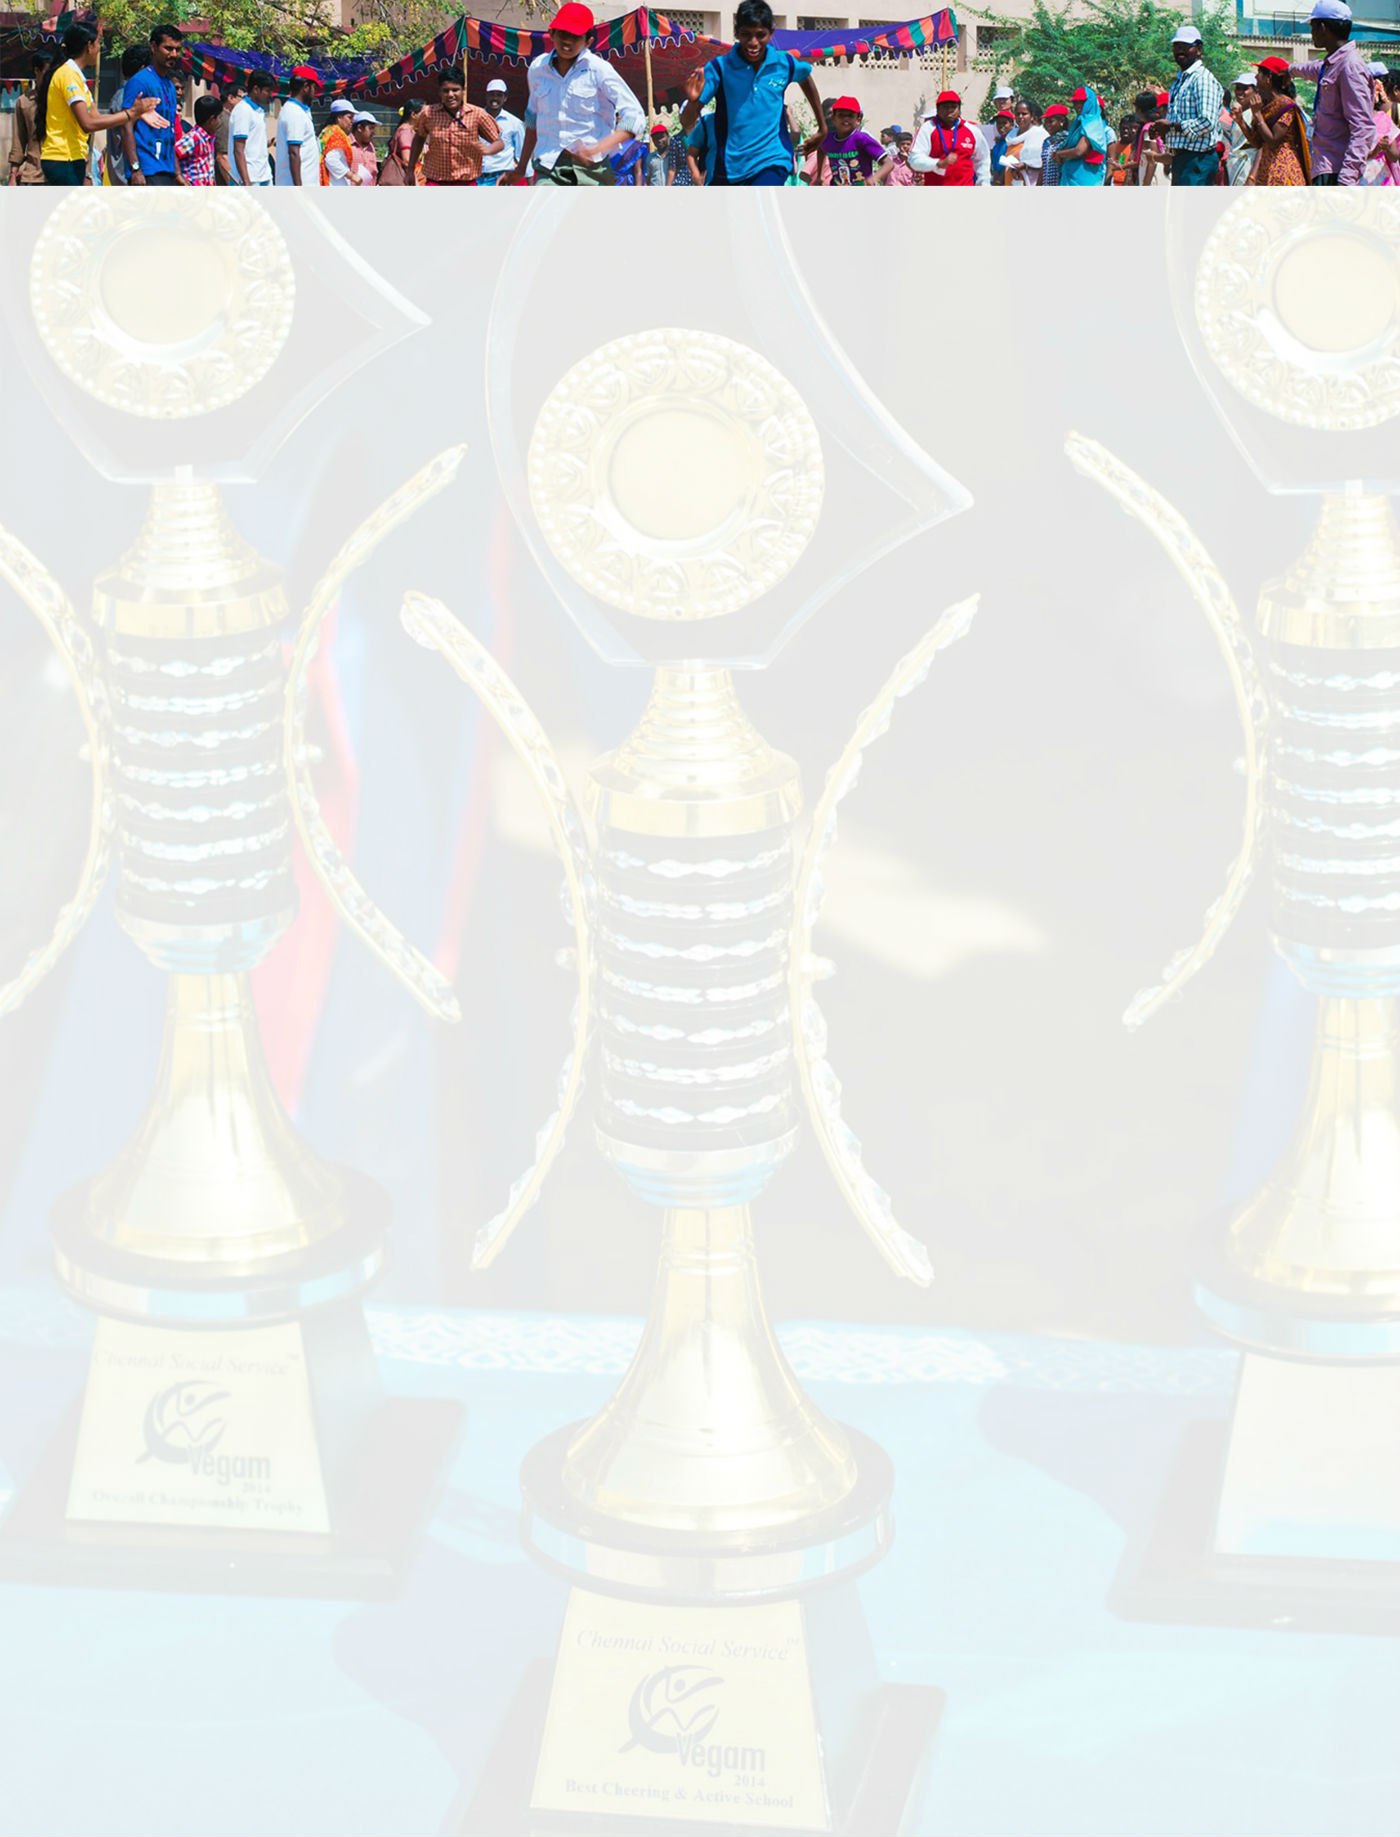
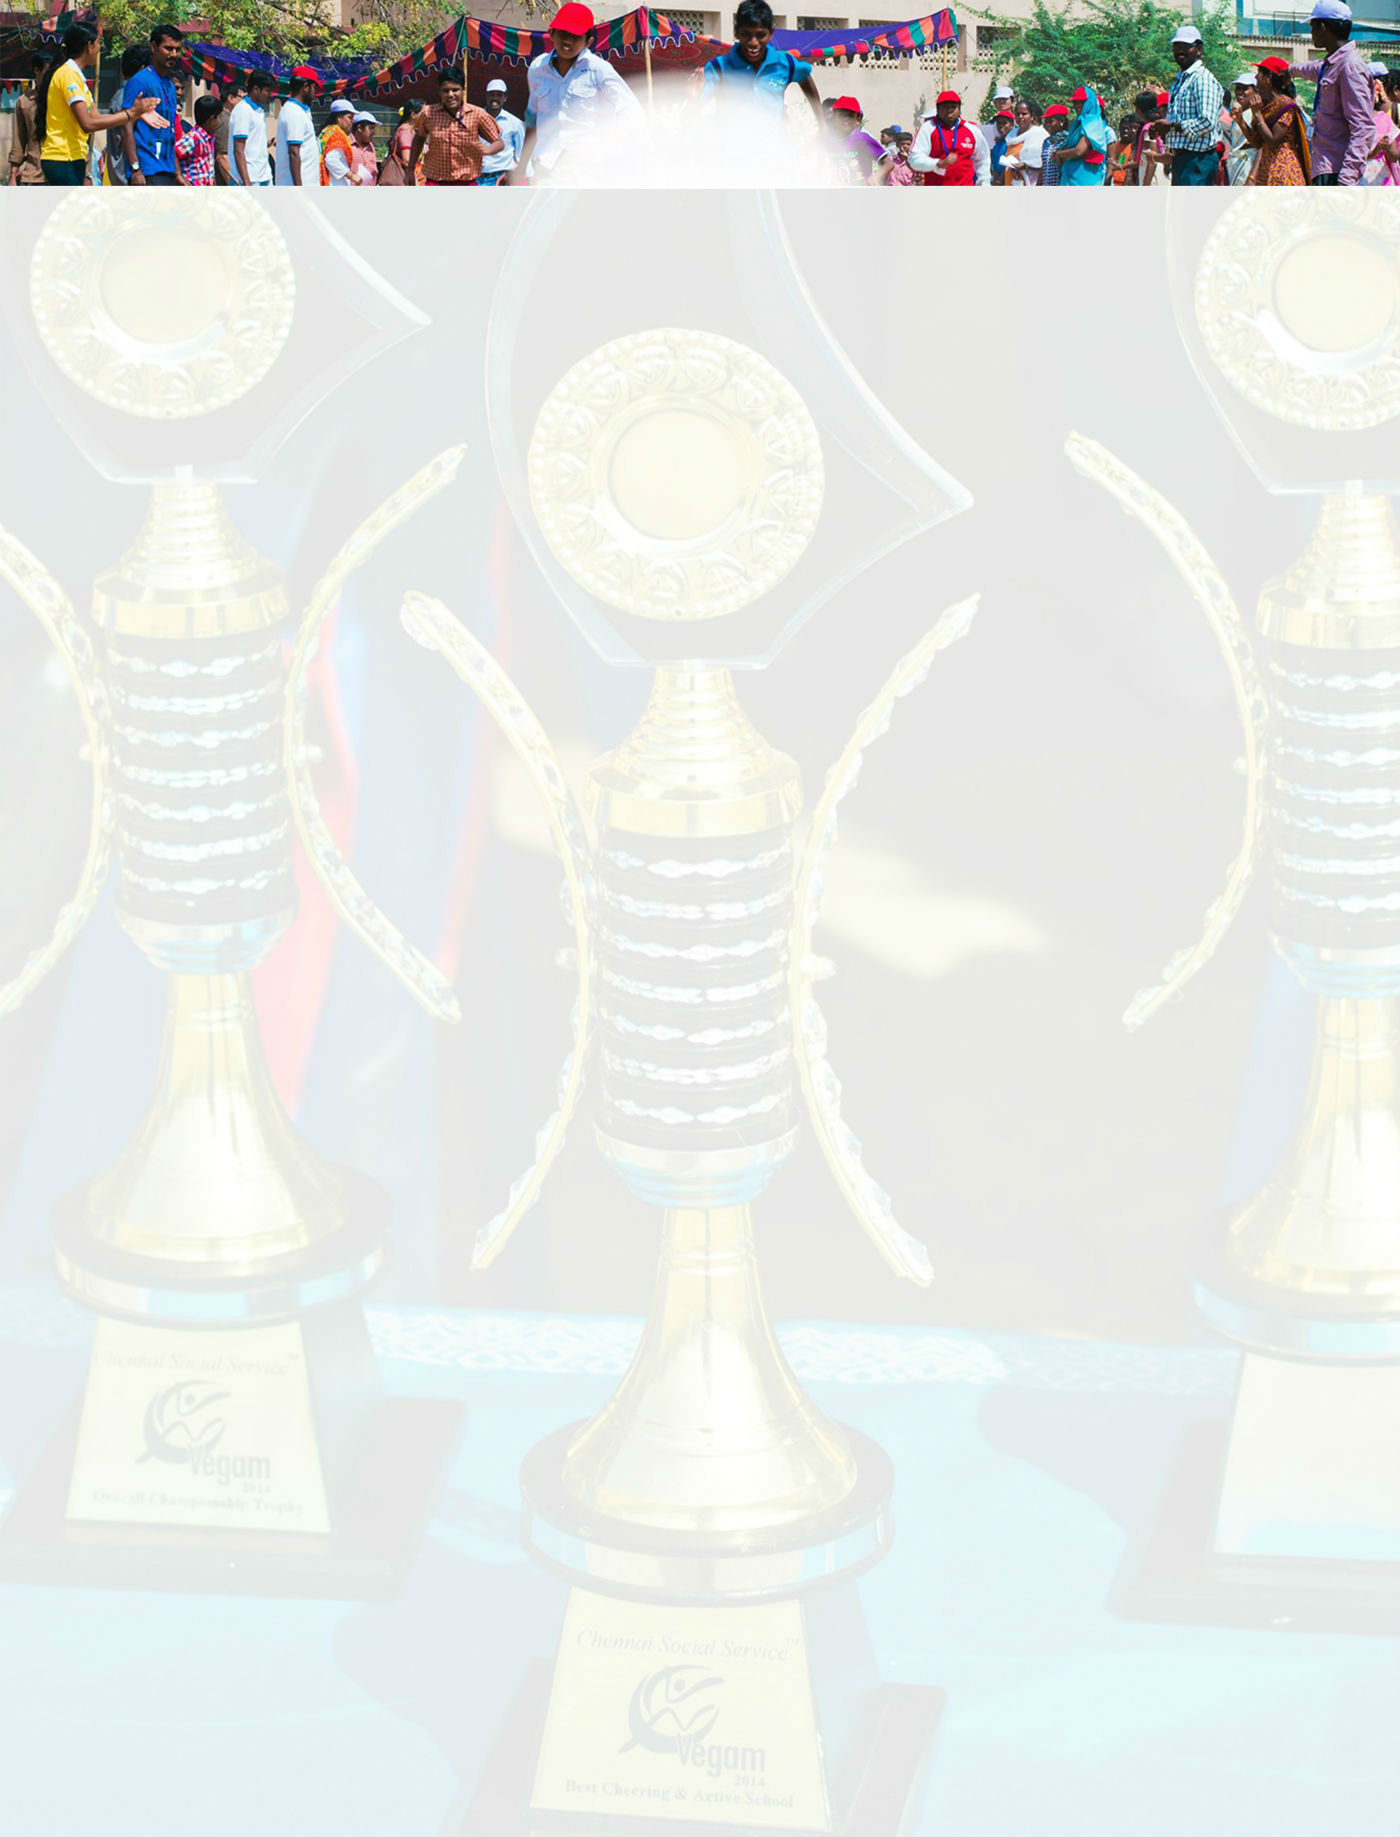
Header merge

Changed region(s): [[0.3686, 0.031, 0.645, 0.1241]]

diff --git a/schoolRegistration.html b/schoolRegistration.html
@@ -37,7 +37,7 @@
         <img class="logo" src="k.png"/>
 
         <!-- Footer that sticks to the bottom of the screen (not document) -->
-        <p class="footer"> <a href="http://chennaisocialservice.org/"> Chennai Social Service </a> - Powered by <a href="https://plus.google.com/u/0/communities/104455776462402572964">Indian National Developers</a> &nbsp , &nbsp use only <a href="https://www.google.com/chrome/browser/desktop/">(Chrome</a>,<a href="https://www.mozilla.org/en-US/firefox/new/">Firefox)</a>  </p>
+        <p class="footer"> <a href="http://chennaisocialservice.org/"> Chennai Social Service </a> - Powered by <a href="https://plus.google.com/u/0/communities/104455776462402572964">Indian National Developers</a>. Use <a href="https://www.google.com/chrome/browser/desktop/">Chrome</a>, <a href="https://www.mozilla.org/en-US/firefox/new/">Firefox</a> to properly use this site.</p>
 
 </body>
 </html>

diff --git a/index.html b/index.html
@@ -84,7 +84,7 @@
     <body>
 
             <!-- Top section contains the Vegam Title and Page Title -->
-            <div class="header" style="background-image:url('vegamVenue.jpg'); background-repeat: no-repeat"> 
+            <div class="header" style="background-image:url('vegamVenue.jpg'); background-repeat: no-repeat; margin-top: -2%; padding-top: 2%;"> 
                 <h1> <a href="index.html"> Vegam 2k15 </a> </h1>
                 <h3> Home </h3>
                 <h5> <a href="./How.pdf" target="_blank" style="width: 240px; position: fixed; top:26%; right:0%; background-color:#aaa; z-index:100"> How to use this Portal? </a> </h5>

diff --git a/vegam.css b/vegam.css
@@ -4,7 +4,7 @@
  */
 
 body {
-    margin-top          :   14%;
+    margin-top          :   8%;
     background-image    :   url('m.jpg');
     background-repeat   :   no-repeat;
     background-size     :   100%;
@@ -24,6 +24,13 @@ h1, h2, h3, h4, h5, h6 {
 	text-decoration		:	none;
     margin-top          :   0px;
     margin-bottom       :   0px;
+}
+
+h1 {
+    font-size           :   36px;
+}
+h3 {
+    font-size           :   22px;
 }
 
 /**
